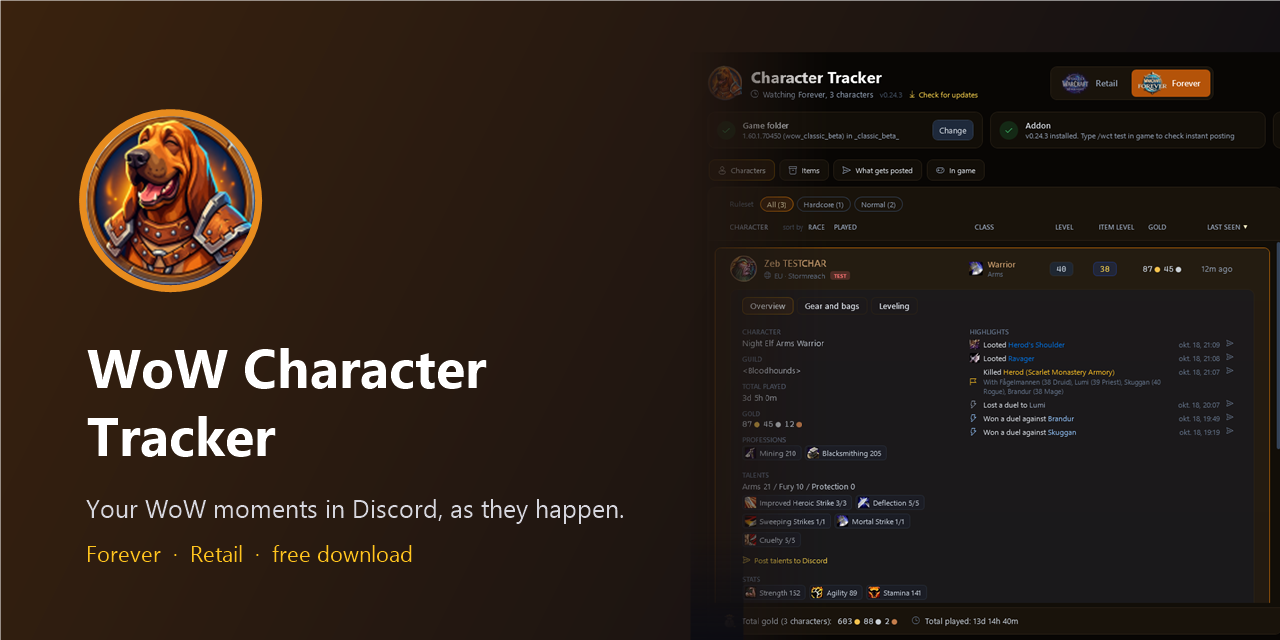
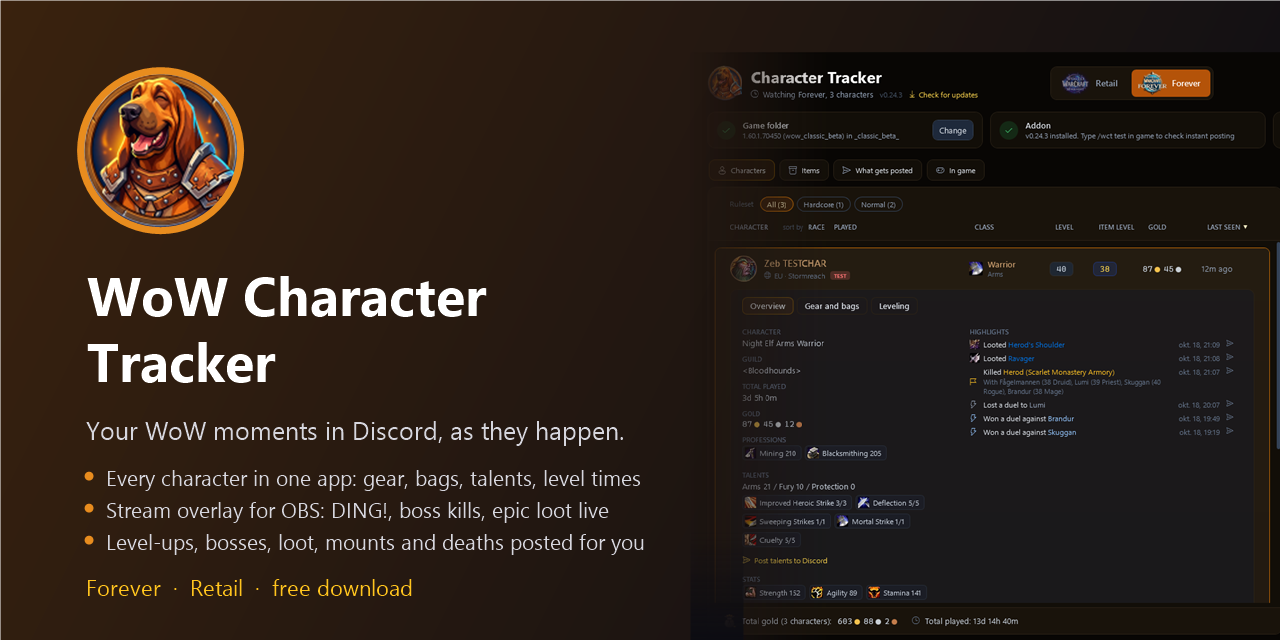
feat(companion): post only each character's first kill of an end boss
- FlavorSettings.FirstBossKillOnly (on by default): a boss this character killed before
  isn't posted again; Wants(e, history) checks the tab's events, the console says why
- "First kill only" chip under End boss kills; in Reset and settings codes too
- every kill still shows in the app's highlights
- social preview lists the character details and the stream overlay too
- version 0.24.4

diff --git a/companion/WoWCharacterTracker/Views/PostingPage.xaml b/companion/WoWCharacterTracker/Views/PostingPage.xaml
@@ -163,6 +163,7 @@
                   <Button Style="{StaticResource ChipButton}" Content="Test" Command="{Binding DataContext.TestKindCommand, RelativeSource={RelativeSource AncestorType=Window}}" ToolTip="Send a sample post of this kind to Discord, to see how it looks" CommandParameter="boss"/>
                   <CheckBox Style="{StaticResource ChipCheck}" Content="Screenshot" ToolTip="Take a screenshot in game a moment after it happens" IsChecked="{Binding Shots[boss].Take}"/>
                   <CheckBox Style="{StaticResource ChipCheck}" Content="Post screenshot" ToolTip="Attach that screenshot to the Discord post" IsChecked="{Binding Shots[boss].Post}" Visibility="{Binding Shots[boss].Take, Converter={StaticResource Visible}}"/>
+                  <CheckBox Style="{StaticResource ChipCheck}" Content="First kill only" ToolTip="Post each character's first kill of each end boss, not the runs after it. Every kill still shows in the app's highlights." IsChecked="{Binding FirstBossKillOnly}" IsEnabled="{Binding PostBosses}"/>
                 </WrapPanel>
                 <StackPanel Margin="30,6,0,0" IsEnabled="{Binding PostBosses}">
                   <TextBlock Text="Skip when someone in the group matches (regex)" Foreground="{StaticResource TextSoft}" FontSize="12" Margin="0,0,0,4" TextWrapping="Wrap"/>

diff --git a/companion/WoWCharacterTracker/Services/PostingCode.cs b/companion/WoWCharacterTracker/Services/PostingCode.cs
@@ -16,7 +16,7 @@ static class PostingCode
         bool PostRare, bool PostEpic, bool PostMounts, bool PostBosses, bool PostDeaths,
         bool PostDuels, bool PostMakgora, bool PostMPlus, bool PostPvp,
         List<int> MPlusSteps, List<int> PvpSteps, string SkipBossGroupRegex, string NameStyle,
-        bool HideChatInShots, Dictionary<string, bool> Screenshot, Dictionary<string, bool> PostScreenshot, bool HideUiInShots = false);
+        bool HideChatInShots, Dictionary<string, bool> Screenshot, Dictionary<string, bool> PostScreenshot, bool HideUiInShots = false, bool FirstBossKillOnly = true);
 
     public static string Export(FlavorSettings s, Flavor flavor)
     {
@@ -25,7 +25,7 @@ static class PostingCode
             s.PostRare, s.PostEpic, s.PostMounts, s.PostBosses, s.PostDeaths,
             s.PostDuels, s.PostMakgora, s.PostMPlus, s.PostPvp,
             s.MPlusSteps, s.PvpSteps, s.SkipBossGroupRegex, s.NameStyle,
-            s.HideChatInShots, s.Screenshot, s.PostScreenshot, s.HideUiInShots);
+            s.HideChatInShots, s.Screenshot, s.PostScreenshot, s.HideUiInShots, s.FirstBossKillOnly);
         return Prefix + Convert.ToBase64String(Encoding.UTF8.GetBytes(JsonSerializer.Serialize(dto)));
     }
 
@@ -52,7 +52,7 @@ static class PostingCode
             LevelEveryBefore = Math.Clamp(d.LevelEveryBefore, 1, 100),
             LevelEveryAfter = Math.Clamp(d.LevelEveryAfter, 1, 100),
             PostMaxLevel = d.PostMaxLevel,
-            PostRare = d.PostRare, PostEpic = d.PostEpic, PostMounts = d.PostMounts, PostBosses = d.PostBosses, PostDeaths = d.PostDeaths,
+            PostRare = d.PostRare, PostEpic = d.PostEpic, PostMounts = d.PostMounts, PostBosses = d.PostBosses, PostDeaths = d.PostDeaths, FirstBossKillOnly = d.FirstBossKillOnly,
             PostDuels = d.PostDuels, PostMakgora = d.PostMakgora, PostMPlus = d.PostMPlus, PostPvp = d.PostPvp,
             MPlusSteps = Steps(d.MPlusSteps, target.MPlusSteps),
             PvpSteps = Steps(d.PvpSteps, target.PvpSteps),

diff --git a/companion/WoWCharacterTracker/Services/Tracker.cs b/companion/WoWCharacterTracker/Services/Tracker.cs
@@ -164,7 +164,7 @@ sealed class Tracker : IDisposable
             }
             else if (pending.Count > 0)
             {
-                sent = await PostPendingAsync(pending, settings());
+                sent = await PostPendingAsync(pending, data.Events, settings());
             }
 
             File.WriteAllText(statePath, JsonSerializer.Serialize(posted));
@@ -203,19 +203,21 @@ sealed class Tracker : IDisposable
 
     // Posts what this tab wants, in order. Things it isn't set to post are marked as handled, so
     // turning a toggle on later doesn't dump old events into the channel. Returns how many posts went out.
-    async Task<int> PostPendingAsync(List<Entry> pending, FlavorSettings s)
+    async Task<int> PostPendingAsync(List<Entry> pending, List<Entry> history, FlavorSettings s)
     {
-        foreach (var e in pending.Where(e => !s.Wants(e)))
+        foreach (var e in pending.Where(e => !s.Wants(e, history)))
         {
             if (e.Kind == "boss" && s.PostBosses && s.SkipBossBecause(e) is { } who)
                 Log.Info($"{Tag}Not posting {e.Boss}: {who.Name} is in the group (they post it).");
+            else if (e.Kind == "boss" && s.PostBosses && s.IsRepeatKill(e, history))
+                Log.Info($"{Tag}Not posting {e.Boss}: {e.Char} has killed it before (only first kills are posted).");
             posted!.Add(e.Id);
             // Only posted highlights keep their screenshot. (The addon normally doesn't take one for
             // these, unless the settings changed since the game last loaded them.)
             if (e.Shot && ScreenshotFileFor(e, within: 20) is { } unwantedShot) Files.TryDelete(unwantedShot);
         }
 
-        var toPost = pending.Where(s.Wants).ToList();
+        var toPost = pending.Where(e => s.Wants(e, history)).ToList();
         if (toPost.Count == 0) return 0;
         var hooks = webhooks();
         if (hooks.Count == 0)

diff --git a/companion/WoWCharacterTracker/Models/FlavorSettings.cs b/companion/WoWCharacterTracker/Models/FlavorSettings.cs
@@ -26,6 +26,7 @@ class FlavorSettings
     public bool PostMounts { get; set; } = true;
     public bool PostBosses { get; set; }
     public bool PostDeaths { get; set; }
+    public bool FirstBossKillOnly { get; set; } = true; // each character's first kill of each end boss, not the farming after
 
     // Duels, hardcore Mak'gora, and retail rating milestones (posted when a step is passed).
     public bool PostDuels { get; set; }
@@ -96,6 +97,7 @@ class FlavorSettings
     {
         (PostLevels, LevelSplit, LevelEveryBefore, LevelEveryAfter) = (d.PostLevels, d.LevelSplit, d.LevelEveryBefore, d.LevelEveryAfter);
         (PostRare, PostEpic, PostMounts, PostBosses, PostDeaths) = (d.PostRare, d.PostEpic, d.PostMounts, d.PostBosses, d.PostDeaths);
+        FirstBossKillOnly = d.FirstBossKillOnly;
         (PostMaxLevel, PostDuels, PostMakgora, PostMPlus, PostPvp) = (d.PostMaxLevel, d.PostDuels, d.PostMakgora, d.PostMPlus, d.PostPvp);
         (MPlusSteps, PvpSteps) = ([.. d.MPlusSteps], [.. d.PvpSteps]);
         Screenshot = new(d.Screenshot);
@@ -113,6 +115,13 @@ class FlavorSettings
     }
 
     // Whether this tab posts the event. Legendary loot is always posted, with extra flair.
+    // Wants, plus what needs the character's history: a boss this character killed before isn't posted
+    // again when only first kills are. history: every event known for the tab.
+    public bool Wants(Entry e, IEnumerable<Entry> history) => Wants(e) && !(e.Kind == "boss" && IsRepeatKill(e, history));
+
+    public bool IsRepeatKill(Entry e, IEnumerable<Entry> history) =>
+        FirstBossKillOnly && history.Any(o => o.Kind == "boss" && o.Guid == e.Guid && o.Boss == e.Boss && o.At < e.At);
+
     public bool Wants(Entry e) => e.Kind switch
     {
         "level" => (e.MaxLevel && PostMaxLevel) || LevelWanted(e.Level),

diff --git a/companion/WoWCharacterTracker.Tests/SharedRulesTests.cs b/companion/WoWCharacterTracker.Tests/SharedRulesTests.cs
@@ -73,6 +73,22 @@ public class SharedRulesTests
     }
 
     [Fact]
+    public void Only_a_characters_first_kill_of_a_boss_is_posted()
+    {
+        var s = new FlavorSettings { PostBosses = true };
+        Entry Kill(string guid, string boss, long at) => new() { Kind = "boss", Guid = guid, Boss = boss, At = at };
+        var first = Kill("a", "Ragnaros", 100);
+        var again = Kill("a", "Ragnaros", 200);
+        List<Entry> history = [first, again, Kill("b", "Ragnaros", 150), Kill("a", "Onyxia", 50)];
+
+        Assert.True(s.Wants(first, history));
+        Assert.False(s.Wants(again, history));
+        Assert.True(s.Wants(Kill("b", "Ragnaros", 150), history)); // another character's first
+        s.FirstBossKillOnly = false;
+        Assert.True(s.Wants(again, history));
+    }
+
+    [Fact]
     public void Webhooks_follow_rulesets_and_tags()
     {
         var config = new Config();

diff --git a/companion/WoWCharacterTracker/ViewModels/FlavorViewModel.cs b/companion/WoWCharacterTracker/ViewModels/FlavorViewModel.cs
@@ -164,6 +164,7 @@ sealed class FlavorViewModel : Observable
     public bool PostMounts { get => Settings.PostMounts; set { Settings.PostMounts = value; Changed(); } }
     public bool PostBosses { get => Settings.PostBosses; set { Settings.PostBosses = value; Changed(); } }
     public bool PostDeaths { get => Settings.PostDeaths; set { Settings.PostDeaths = value; Changed(); } }
+    public bool FirstBossKillOnly { get => Settings.FirstBossKillOnly; set { Settings.FirstBossKillOnly = value; main.Config.Save(); Raise(nameof(FirstBossKillOnly)); } }
     public bool PostMaxLevel { get => Settings.PostMaxLevel; set { Settings.PostMaxLevel = value; Changed(); } }
     public bool PostDuels { get => Settings.PostDuels; set { Settings.PostDuels = value; Changed(); } }
     public bool PostMakgora { get => Settings.PostMakgora; set { Settings.PostMakgora = value; Changed(); } }

diff --git a/CHANGELOG.md b/CHANGELOG.md
@@ -2,6 +2,10 @@
 
 The app shows the notes for a new version when it finds an update. Each release takes its notes from its section here.
 
+## v0.24.4
+
+- **Only the first boss kill per character**: an end boss is posted the first time each character kills it, not every run after (farming Stratholme or Molten Core no longer fills the channel). On by default; turn off "First kill only" under End boss kills on the What gets posted page to post every kill again. Every kill still shows in the app's highlights.
+
 ## v0.24.3
 
 - **Forever's new dungeons count as boss kills**: killing the last boss of The Hall of Thanes (Durgen Dirgehammer), Ruins of Lordaeron (Rath'mael), Excavation Site: Wetlands (Relic Guardian), City of Dalaran (Shade of the Archmage), Alcaz Prison (Blazeroar) or Shaper's Terrace (Nanaya) is now posted like any other end boss. More are added as Forever's dungeons and raids come out. Comes with the updated addon, so `/reload` once.
